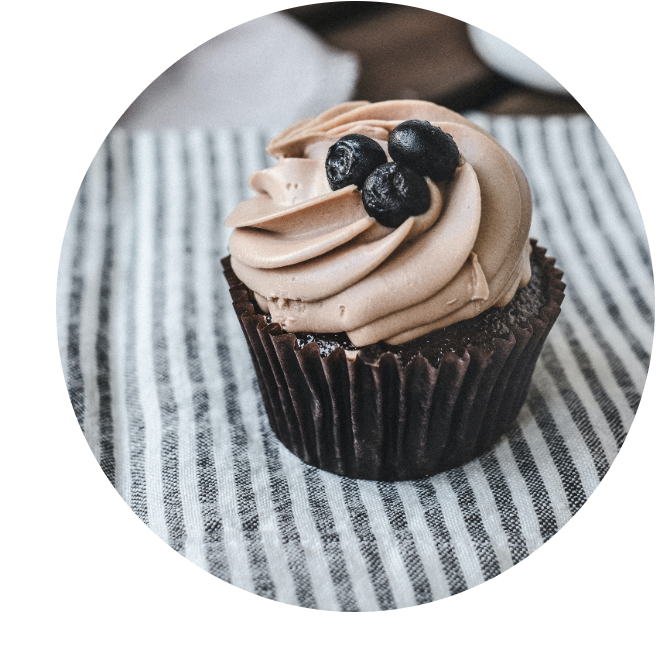
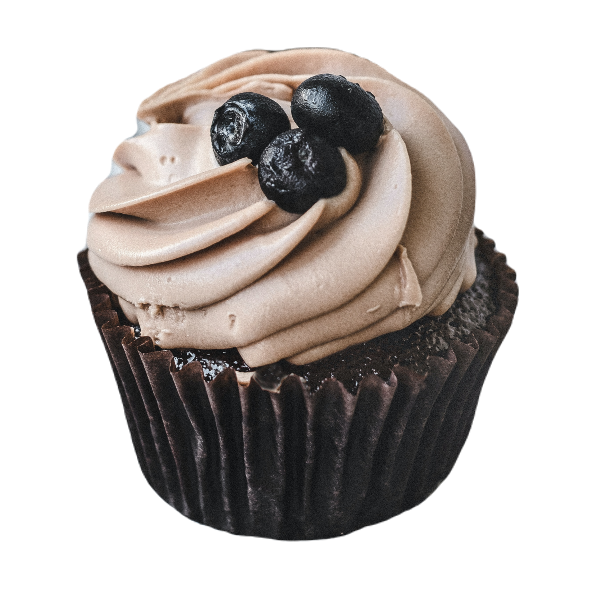
- add new cupcakes images - restyle products cards

diff --git a/assets/css/style.css b/assets/css/style.css
@@ -779,7 +779,7 @@ button[class*='btn'] {
 
 .tab-content {
   display: grid;
-  gap: 40px;
+  gap: 25px;
   grid-template-columns: repeat(3, 1fr);
   justify-self: center;
   width: 100%;
@@ -803,7 +803,6 @@ button[class*='btn'] {
 }
 
 .tab-card:hover {
-  transform: scale(1.1);
   background-color: var(--white-color);
 }
 
@@ -829,8 +828,8 @@ button[class*='btn'] {
 }
 
 .card-img {
-  height: 150px;
-  width: 150px;
+  height: 250px;
+  width: 250px;
   filter: drop-shadow(3px 1px 5px rgb(0 0 0 / 49%));
 }
 
@@ -838,13 +837,14 @@ button[class*='btn'] {
   width: 40px;
   height: 40px;
   cursor: pointer;
-  transition-duration: 0.2s;
+  position: relative;
+  right: -40%;
+  top: -87%;
+  transition-duration: 0.3s;
 }
 
-.basket-icon:hover,
-.basket-icon:focus {
-  filter: invert(27%) sepia(51%) saturate(2878%) hue-rotate(346deg)
-    brightness(104%) contrast(97%);
+.basket-icon:hover {
+  transform: scale(1.2);
 }
 
 /* about section */
@@ -1398,7 +1398,7 @@ button[class*='btn'] {
     height: 400px;
     width: 400px;
     left: -19px;
-    top: 30%;
+    top: 18%;
   }
 
   .about-img {
@@ -1485,9 +1485,6 @@ button[class*='btn'] {
     width: 90%;
     height: 90%;
   }
-  .container {
-    width: auto;
-  }
 
   .cupcake-img {
     left: 0;
@@ -1532,22 +1529,21 @@ button[class*='btn'] {
   }
 
   .tab-content {
-    grid-template-columns: repeat(1, 1fr);
+    grid-template-columns: repeat(2, 1fr);
     height: 100%;
-    width: 40%;
-    gap: 0;
+    width: 100%;
+    gap: 20px;
+  }
+
+  .tab-card {
+    width: 90%;
+    left: 50%;
+    transform: translateX(-50%);
+    position: relative;
   }
 
   .product-tab {
     margin: 20px auto;
-  }
-
-  .card-img {
-    margin: 40px auto;
-  }
-
-  .basket-icon {
-    margin: 40px auto;
   }
 
   .tab-card {
@@ -1803,7 +1799,10 @@ button[class*='btn'] {
   }
 
   .tab-content {
-    width: 400px;
+    grid-template-columns: repeat(1, 1fr);
+    height: 100%;
+    width: 500px;
+    gap: 0;
   }
 
   .product-tab {
@@ -2025,7 +2024,7 @@ button[class*='btn'] {
   }
 
   .btns {
-    top: 75%;
+    top: 107%;
   }
 
   .red-btn {
@@ -2055,8 +2054,22 @@ button[class*='btn'] {
     display: none;
   }
 
+  .tab-card {
+    width: 100%;
+    height: 90%;
+  }
+
   .tab-card p {
     font-size: 15px;
+  }
+
+  .tab-card img {
+    margin: 0;
+  }
+
+  .tab-card h3 {
+    font-size: 22px;
+    padding: 10px;
   }
 
   #hamburger-icon {
@@ -2116,6 +2129,12 @@ button[class*='btn'] {
   .purchase-box {
     height: fit-content;
   }
+
+  .card-img {
+    margin: 40px auto;
+    width: 200px;
+    height: 200px;
+  }
 }
 
 @media screen and (max-width: 380px) {
@@ -2133,11 +2152,6 @@ button[class*='btn'] {
   .product-tab {
     width: 250px;
     font-size: 20px;
-  }
-
-  .card-img {
-    height: 100px;
-    width: 100px;
   }
 
   .tab-content {

diff --git a/assets/js/products.js b/assets/js/products.js
@@ -32,7 +32,7 @@ cupcakes.forEach(function (cupcake) {
   // create basket icon
   let productsBasketIcon = document.createElement('img');
   productsBasketIcon.classList = 'basket-icon';
-  productsBasketIcon.src = 'assets/images/addbasket.svg';
+  productsBasketIcon.src = 'assets/images/addbasket.png';
   tabCard.appendChild(productsBasketIcon);
   // add onclick event to basket icons
   productsBasketIcon.onclick = function (e) {
